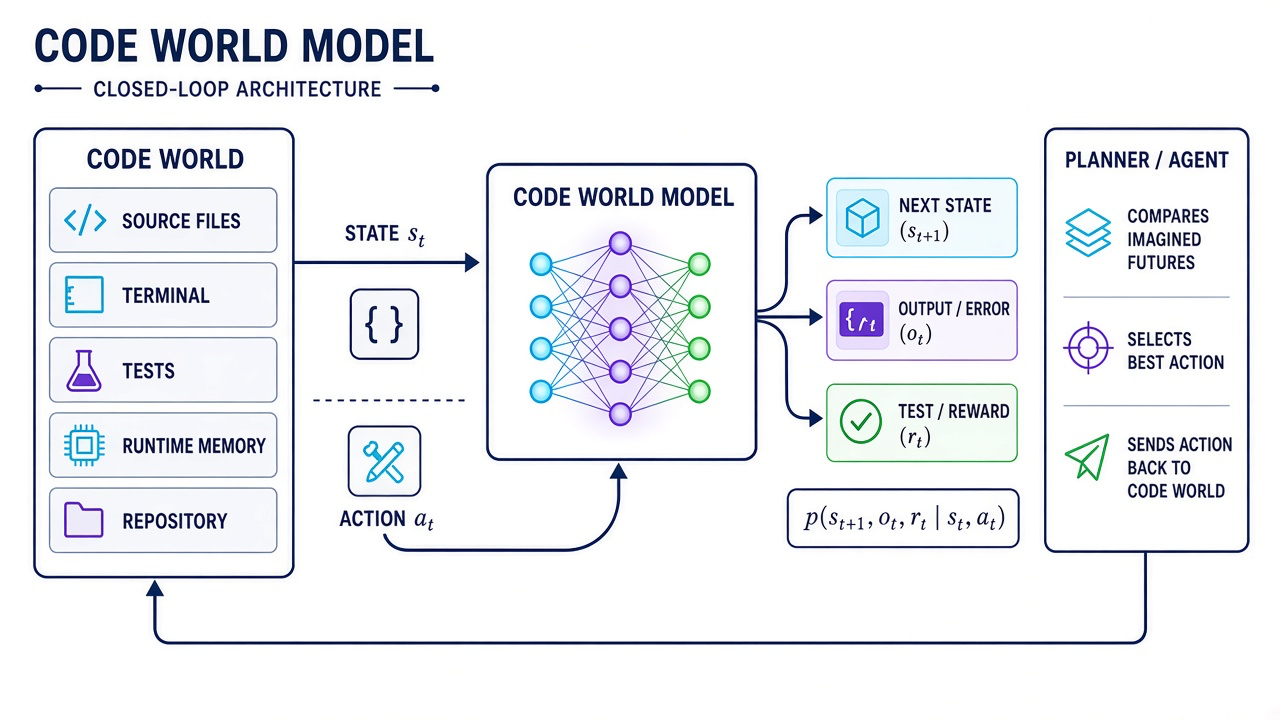
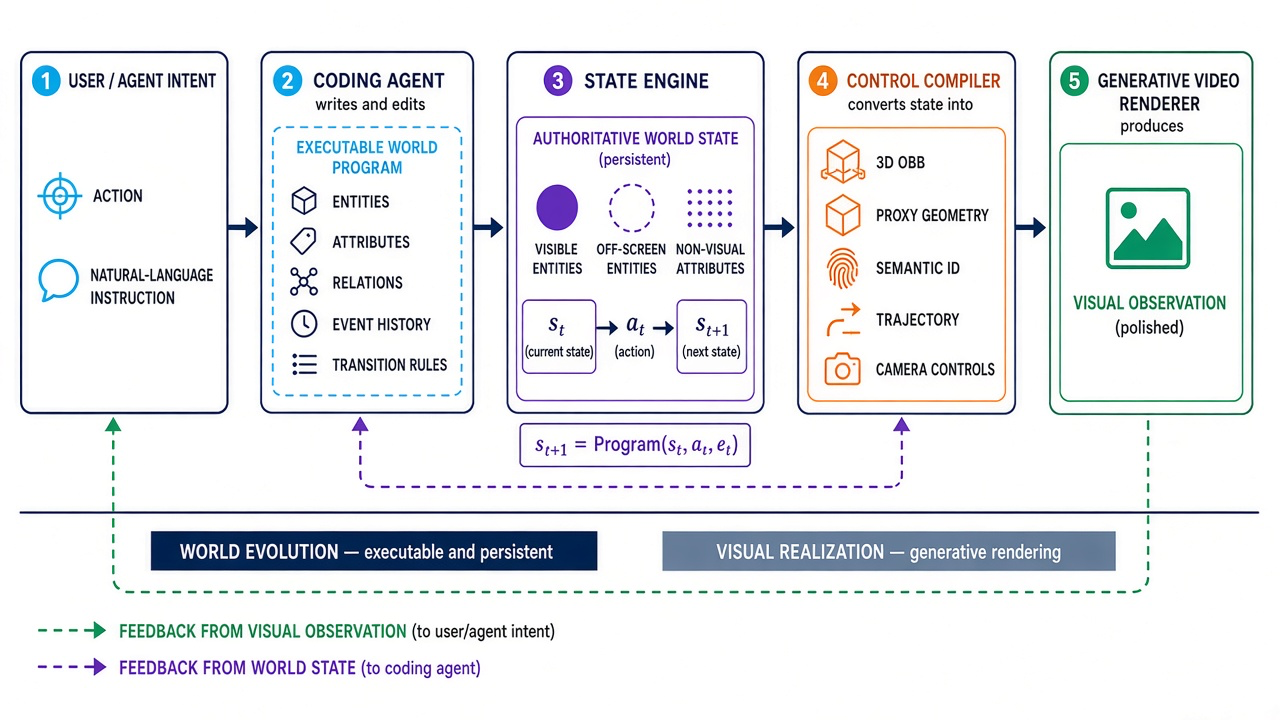
Refocus collection on programmable world models

Changed region(s): [[0.0, 0.0306, 1.0, 0.9472]]

diff --git a/README.md b/README.md
@@ -4,58 +4,151 @@
 ![Last updated](https://img.shields.io/badge/last%20updated-September%202026-blue)
 [![PRs Welcome](https://img.shields.io/badge/PRs-welcome-brightgreen.svg)](#contributing)
 
-A curated collection of papers, models, datasets, benchmarks, and resources on **Code World Models (CWMs)**—learned models that predict how executable software environments change.
+A curated collection of papers, models, datasets, benchmarks, and resources on **Code World Models (CWMs)**—world models whose state and dynamics are represented, generated, or maintained as executable code.
 
-> This is a young and fast-moving area. The list uses a deliberately strict scope so that it does not become another general collection of code LLMs or coding agents.
+> **Primary focus:** code as the persistent, programmable “brain” of an external visual, physical, or interactive world. Software-execution world models are retained as a separate second direction because the term CWM is also used there.
 
 ## What is a Code World Model?
 
-A **Code World Model** is a learned predictive model of an executable software environment. Given a current state $s_t$—such as source files, runtime memory, a repository, or a terminal session—and an action $a_t$—such as executing a statement, editing a file, invoking an API, or running a command—it predicts an execution-relevant consequence:
+A **Code World Model** represents an external world's entities, state, relations, events, and transition rules as an executable program. Given the current authoritative state $s_t$, an action $a_t$, and optional events $e_t$, executing the program advances the world:
 
 $$
-\hat{p}(s_{t+1}, o_t, r_t, d_t \mid s_t, a_t)
+s_{t+1} = \operatorname{Program}(s_t, a_t, e_t)
 $$
 
-The prediction may represent the next program or environment state, an execution trace, stdout/stderr, an exception, a test result, resource usage, a reward, or termination. A CWM becomes especially useful when these predictions replace or augment real execution in planning, search, generation, verification, or agent training.
+The program may be written by a coding agent, induced from observations and interactions, synthesized from a specification, or manually authored. In visual CWMs, a compiler converts the updated state into spatial controls—such as 3D boxes, proxy geometry, trajectories, semantic IDs, and camera paths—and a generative renderer turns those controls into video observations. This separation lets code preserve exact, persistent, off-screen, and non-visual facts while a neural model focuses on appearance.
 
 ### Inclusion Criteria
 
-- Learned transition models for interpreters, debuggers, terminals, repositories, build systems, compilers, and test runners.
-- Learned execution, trace, output, error, test, resource, or reward predictors.
-- Benchmarks that directly measure software-state or execution-outcome prediction.
-- Closely related systems that synthesize executable world models *as code*, listed separately.
+- Executable state and rule systems coupled to neural image or video renderers.
+- World models learned or generated as code, probabilistic programs, PDDL, or simulator programs.
+- Coding agents that infer, edit, verify, and plan with executable world representations.
+- Explicit-state world models that clarify the state/dynamics/rendering decomposition.
+- Software-execution world models, kept in their own clearly labeled direction.
 
 ### Exclusion Criteria
 
-- Ordinary code completion, generation, repair, or static code understanding.
-- Coding agents that only call real tools and do not learn environment dynamics.
-- Verifiers trained only on textual preferences, without execution-grounded targets.
-- General world models unrelated to executable software environments.
+- Ordinary code generation without an executable model of world dynamics.
+- Generic game engines or simulators that are not generated, induced, or part of a world-model contribution.
+- Pixel-only or latent video world models with no explicit programmatic state, except as contextual related work.
+- Coding agents that neither construct nor use a world model.
 
 <p align="center">
-  <img src="assets/code-world-model-overview.png" width="100%" alt="A Code World Model predicts the next software state, output, error, test result, or reward from the current code-world state and an action, allowing an agent to plan over imagined futures." />
+  <img src="assets/code-world-model-overview.png" width="100%" alt="A coding agent writes an executable world program, a state engine maintains persistent world state, a compiler creates visual controls, and a generative video model renders observations." />
 </p>
 
 ## Contents
 
-- [Core Models](#core-models)
+- [Programmatic Visual World Models](#programmatic-visual-world-models)
+- [Explicit-State Models and Generative Renderers](#explicit-state-models-and-generative-renderers)
+- [World Models as Executable Programs](#world-models-as-executable-programs)
+- [Programmatic-World Benchmarks](#programmatic-world-benchmarks)
+- [Adjacent Neural Visual World Models](#adjacent-neural-visual-world-models)
+- [Software World Models](#software-world-models)
   - [Repository and Terminal World Models](#repository-and-terminal-world-models)
   - [Program Execution and State Models](#program-execution-and-state-models)
-- [Evaluation and Analysis](#evaluation-and-analysis)
-- [Benchmarks](#benchmarks)
-- [World Models as Code](#world-models-as-code)
+  - [Software-World Evaluation and Analysis](#software-world-evaluation-and-analysis)
+  - [Software-World Benchmarks](#software-world-benchmarks)
+- [Terminology and Scope](#terminology-and-scope)
 - [Contributing](#contributing)
 
 ## Tag Legend
 
-- `transition` — predicts action-conditioned next states or observations
-- `trace` — predicts intermediate program execution
-- `outcome` — predicts outputs, errors, tests, resources, or termination
-- `reward` — predicts task success or scalar feedback
-- `repo` / `terminal` — models repository-scale or command-line environments
-- `open model` — public model weights are available
+- `code-state` — code is the authoritative world-state representation
+- `agent-written` — a coding agent creates or edits world programs
+- `induced` — executable dynamics are learned from observations or interaction
+- `neural renderer` — a generative model realizes visual observations from structured controls
+- `explicit state` — dynamics and observations are modeled separately
+- `software world` — predicts the behavior of programs or software environments
+- `transition` / `trace` / `outcome` / `reward` — software-world prediction targets
+- `repo` / `terminal` — repository-scale or command-line software environments
+- `open code` / `open model` — public implementation or weights are available
 
-## Core Models
+## Programmatic Visual World Models
+
+These works most directly match this repository's primary focus: executable programs maintain or reconstruct a world, and visual observations are produced through a rendering pipeline.
+
+- **Programmable World Model (PWM)** — *Programmable World Model*. arXiv 2026. A coding agent translates instructions into entity states and executable transition rules; a lightweight engine maintains persistent off-screen and non-visual state; state-augmented 3D oriented bounding boxes are compiled into controls for a pretrained video renderer. Introduces CombatStateBench. `code-state` `agent-written` `neural renderer` `open code`
+  [Paper](https://arxiv.org/abs/2609.10540) · [Project](https://alaya-lab.github.io/pwm/) · [Code](https://github.com/AlayaLab/pwm)
+
+- **Code World Model** — *Code World Model: Coding Agent as World Brain*. arXiv 2026. A coding agent continually creates and updates executable world state and rules, compiles them into proxy videos and structured prompts, and conditions MiniMax-H3 to render open-ended visual observations. `code-state` `agent-written` `neural renderer` `open code`
+  [Paper](https://arxiv.org/abs/2608.25927) · [Project](https://buaacyw.github.io/cwm/) · [Code](https://github.com/buaacyw/code-world-model) · [Model](https://huggingface.co/NTU-yiwen/awm-minimax-h3-new1344-lora-checkpoints)
+
+- **Code as Worlds** — *Code as Worlds: Agentic Discovery of Executable World Representations for Physical Reasoning*. arXiv 2026. Represents physical composition, dynamics, and appearance as executable code, discovered through a propose–execute–render–verify loop from text or video evidence. `code-state` `agent-written` `induced` `open code`
+  [Paper](https://arxiv.org/abs/2608.27549) · [Project](https://mirros-lab.github.io/code-as-world/) · [Code](https://github.com/MirroS-Lab/Code-as-World)
+
+- **VisPhyWorld** — *VisPhyWorld: Probing Physical Reasoning via Code-Driven Video Reconstruction*. arXiv 2026. Requires multimodal models to infer executable 2D/3D physics simulation code from visual evidence and evaluates the re-rendered future, making the inferred dynamics inspectable and falsifiable. `code-state` `agent-written` `induced` `open code`
+  [Paper](https://arxiv.org/abs/2602.13294) · [Project](https://tiger-ai-lab.github.io/VisPhyWorld/) · [Code](https://github.com/TIGER-AI-Lab/VisPhyWorld)
+
+## Explicit-State Models and Generative Renderers
+
+These systems share the key separation between authoritative state/dynamics and visual realization, but their state transitions are learned or conventionally authored rather than maintained as open-ended code by an agent.
+
+- **Magpie** — *Magpie: Real-Time World Renderer for Interactive Games*. arXiv 2026. A conventional game engine owns rules and state while a separate generative render server converts white-box frames into high-fidelity real-time video. `explicit state` `neural renderer`
+  [Paper](https://arxiv.org/abs/2608.27168) · [Project](https://zhanxy.xyz/Magpie-website) · [Data](https://huggingface.co/datasets/MogoAI/Magpie_lite)
+
+- **Marionette** — *Marionette: Predicting World States, Rendering Geometry, Painting Appearance*. arXiv 2026. Predicts explicit articulated 3D state, deterministically converts it into pose-control video, and leaves only appearance synthesis to video diffusion; state-level rules can directly repair rollouts. `explicit state` `neural renderer` `open code` `open model`
+  [Paper](https://arxiv.org/abs/2608.14530) · [Project](https://alayalab.github.io/Marionette/) · [Code](https://github.com/AlayaLab/Marionette) · [Model](https://huggingface.co/AlayaLab/Marionette)
+
+- **MASS** — *MASS: Multiplayer World Models with Authoritative Shared State*. arXiv 2026. A learned logic engine advances a global typed state, while independent neural renderers produce consistent player-specific views. `explicit state` `neural renderer`
+  [Paper](https://arxiv.org/abs/2608.06257) · [Project](https://alaya-lab.github.io/MASS/)
+
+- **StatePlay** — *StatePlay: State-Aware Game World Models for Mechanics-Consistent Generation*. arXiv 2026. Jointly predicts explicit game variables and visual content so mechanics such as health, timers, and skill meters constrain generated gameplay. `explicit state` `neural renderer` `open code` `open model`
+  [Paper](https://arxiv.org/abs/2607.26754) · [Project](https://jimntu.github.io/stateplay_page/) · [Code](https://github.com/Jimntu/StatePlay) · [Model](https://huggingface.co/onepiece1999/StatePlay)
+
+## World Models as Executable Programs
+
+These works learn, synthesize, or repair executable transition models for planning and simulation, usually without a neural visual renderer.
+
+- **VisualPatchWorld** — *VisualPatchWorld: Code World Models as Latent Structured Representations for Planning*. arXiv 2026. Induces structured executable dynamics from visual trajectories for planning across navigation and continuous-control tasks. `induced` `open code`
+  [Paper](https://arxiv.org/abs/2607.25236) · [Code](https://github.com/HKBU-KnowComp/VisualPatchWorld)
+
+- **Mind-Studio** — *Mind-Studio: Executable World Models with Lookahead Evaluation for Partially Observable Games*. arXiv 2026. Synthesizes standalone transition-and-render programs for partially observable Atari games and uses them for lookahead evaluation. `agent-written` `induced` `open code`
+  [Paper](https://arxiv.org/abs/2606.16070) · [Code](https://github.com/HKBU-KnowComp/MindStudio)
+
+- **Executable World Models for ARC-AGI-3** — *Executable World Models for ARC-AGI-3 in the Era of Coding Agents*. arXiv 2026. A coding agent maintains, verifies, simplifies, and plans through persistent Python models of interactive games. `agent-written` `induced` `open code`
+  [Paper](https://arxiv.org/abs/2605.05138) · [Code](https://github.com/astroseger/arc-3-agents-baseline1)
+
+- **PatchWorld** — *PatchWorld: Gradient-Free Optimization of Executable World Models*. arXiv 2026. Induces persistent Python belief-state programs from offline trajectories through counterexample-guided repair. `induced` `open code`
+  [Paper](https://arxiv.org/abs/2605.30880) · [Code](https://github.com/HKBU-KnowComp/PatchWorld)
+
+- **Code World Models for General Game Playing** — ICLR 2026. Compiles natural-language game rules and demonstrations into executable Python functions for transitions, legal actions, observations, rewards, and termination, then plans with MCTS. `agent-written`
+  [Paper](https://proceedings.iclr.cc/paper_files/paper/2026/hash/d8a12fde9e72444e1b356e8c37e53753-Abstract-Conference.html)
+
+- **PoE-World** — *PoE-World: Compositional World Modeling with Products of Programmatic Experts*. NeurIPS 2025 Spotlight. Learns stochastic, partially observable Atari dynamics as a weighted product of small LLM-synthesized Python programs. `agent-written` `induced` `open code`
+  [Paper](https://proceedings.neurips.cc/paper_files/paper/2025/hash/262dd62fd1bbb30d6a6b4d578f5e65ff-Abstract-Conference.html) · [Project](https://topwasu.github.io/poe-world) · [Code](https://github.com/topwasu/poe-world)
+
+- **POMDP Coder** — *LLM-Guided Probabilistic Program Induction for POMDP Model Estimation*. 2025. Generates probabilistic programs for initial state, transition, observation, and reward functions under partial observability. `agent-written` `induced`
+  [Paper](https://arxiv.org/abs/2505.02216)
+
+- **FactorSim** — *FactorSim: Generative Simulation via Factorized Representation*. NeurIPS 2024. Generates complete game and robotics simulations from language using a factorized POMDP representation. `agent-written` `open code`
+  [Paper](https://proceedings.neurips.cc/paper_files/paper/2024/hash/9f35ec2f7f403ef2c83d65b581df10bc-Abstract-Conference.html) · [Project](https://cs.stanford.edu/~sunfanyun/factorsim/) · [Code](https://github.com/sunfanyunn/FactorSim)
+
+- **GIF-MCTS** — *Generating Code World Models with Large Language Models Guided by Monte Carlo Tree Search*. NeurIPS 2024. Searches over executable simulator programs using environment interaction and downstream policy performance, and introduces the Code World Models Benchmark (CWMB). `agent-written` `induced` `open code`
+  [Paper](https://proceedings.neurips.cc/paper_files/paper/2024/hash/6f479ea488e0908ac8b1b37b27fd134c-Abstract-Conference.html) · [Project](https://sites.google.com/view/code-world-models/home) · [Code](https://github.com/nicoladainese96/code-world-models)
+
+- **WorldCoder** — *WorldCoder, a Model-Based LLM Agent: Building World Models by Writing Code and Interacting with the Environment*. NeurIPS 2024. Induces executable transition and reward programs from interaction, verifies them against experience, and plans inside the learned model. `agent-written` `induced` `open code`
+  [Paper](https://proceedings.neurips.cc/paper_files/paper/2024/hash/820c61a0cd419163ccbd2c33b268816e-Abstract-Conference.html) · [Project](https://haotang1995.github.io/projects/worldcoder) · [Code](https://github.com/haotang1995/WorldCoder)
+
+## Programmatic-World Benchmarks
+
+- **CombatStateBench** — Long-horizon entity count and persistent-state evaluation with moving cameras, off-screen entities, and irreversible events. [Paper](https://arxiv.org/abs/2609.10540) · [Code](https://github.com/AlayaLab/pwm)
+- **VisPhyBench** — 209 scenes from 108 physical templates for evaluating code-driven physical reconstruction and re-simulation. [Paper](https://arxiv.org/abs/2602.13294) · [Code and Data](https://github.com/TIGER-AI-Lab/VisPhyWorld)
+- **CWMB** — 18 environments for evaluating induced executable transition models through model fidelity and downstream policy learning. [Paper](https://arxiv.org/abs/2405.15383) · [Code and Data](https://github.com/nicoladainese96/code-world-models)
+- **Text2World** — Generation of executable PDDL world models from natural-language descriptions. [Paper](https://aclanthology.org/2025.findings-acl.1337/) · [Code and Data](https://github.com/Aaron617/text2world)
+
+## Adjacent Neural Visual World Models
+
+These representative interactive video world models provide important rendering and action-conditioning context, but do not use an authoritative executable program as world state.
+
+- **YUME** — *YUME: An Interactive World Generation Model*. arXiv 2025. [Paper](https://arxiv.org/abs/2507.17744)
+- **GameNGen** — *Diffusion Models Are Real-Time Game Engines*. arXiv 2024. [Paper](https://arxiv.org/abs/2408.14837) · [Project](https://gamengen.github.io/)
+- **DIAMOND** — *Diffusion for World Modeling: Visual Details Matter in Atari*. NeurIPS 2024. [Paper](https://arxiv.org/abs/2405.12399) · [Code](https://github.com/eloialonso/diamond)
+- **Genie** — *Genie: Generative Interactive Environments*. ICML 2024. [Paper](https://arxiv.org/abs/2402.15391) · [Project](https://sites.google.com/view/genie-2024/)
+
+## Software World Models
+
+This second direction uses “Code World Model” to mean a learned model of **software execution**: how code, commands, tools, repositories, and tests change a computational environment. Here, code is the modeled world rather than the representation of an external world.
 
 ### Repository and Terminal World Models
 
@@ -97,7 +190,7 @@ The prediction may represent the next program or environment state, an execution
 - **Learning to Execute** — *Learning to Execute*. arXiv 2014. A foundational study training recurrent networks to predict program outputs directly from source code and inputs. `outcome`
   [Paper](https://arxiv.org/abs/1410.4615) · [Code](https://github.com/wojciechz/learning_to_execute)
 
-## Evaluation and Analysis
+### Software-World Evaluation and Analysis
 
 - **Towards Evaluation of Implicit Software World Models in Coding LLMs** — DL4Code at ICML 2026. Evaluates test outcomes, exceptions, memory, runtime, and profiler predictions on library-level cases derived from SWE-bench Verified.
   [Paper](https://arxiv.org/abs/2606.27406) · [Code](https://github.com/JetBrains-Research/cwm-execution-tracer) · [Data](https://huggingface.co/datasets/JetBrains-Research/cwm-benchmarks-dl4c-benchmark)
@@ -105,7 +198,7 @@ The prediction may represent the next program or environment state, an execution
 - **Debugging Code World Models** — 2026. Separates action-generation failures from state-propagation failures in long execution rollouts and analyzes the effect of dense state supervision.
   [Paper](https://arxiv.org/abs/2602.07672) · [Blog](https://babak70.github.io/code-world-models-blog/)
 
-## Benchmarks
+### Software-World Benchmarks
 
 Benchmarks are listed here only when they directly test learned execution or software-environment prediction; they are not themselves Code World Models.
 
@@ -126,27 +219,24 @@ Benchmarks are listed here only when they directly test learned execution or sof
   - **CRUXEval** — Input and output prediction for short Python functions. [Paper](https://proceedings.mlr.press/v235/gu24c.html) · [Code and Data](https://github.com/facebookresearch/cruxeval)
   - **Code Simulation Challenges** — Tests straight-line execution, critical paths, redundant computation, loops, and sorting. [Paper](https://arxiv.org/abs/2401.09074) · [Code and Data](https://github.com/EmanueleLM/CodeSimulation)
 
-## World Models as Code
+## Terminology and Scope
 
-These works use executable code as the **representation of another world's dynamics**. They are highly relevant to the name “Code World Model,” but are separated because the modeled world is a game or general environment rather than software execution.
+“Code World Model” currently refers to several related but distinct ideas:
 
-- **Code World Models for General Game Playing** — ICLR 2026. Generates executable Python game simulators from natural-language specifications and uses them for model-based planning.
-  [Paper](https://proceedings.iclr.cc/paper_files/paper/2026/hash/d8a12fde9e72444e1b356e8c37e53753-Abstract-Conference.html)
+1. **Programmatic external worlds** — code represents another world's entities, state, and dynamics. This is the repository's primary meaning.
+2. **Code-state visual worlds** — executable state is compiled into controls for a neural image or video renderer. PWM and *Coding Agent as World Brain* are the clearest examples.
+3. **Software world models** — a learned model predicts how source code, commands, repositories, or tests execute. Meta CWM and SWE-World use this meaning.
 
-- **Generating Code World Models with Large Language Models Guided by Monte Carlo Tree Search** — NeurIPS 2024. Searches over executable simulator programs and evaluates them through downstream gameplay.
-  [Paper](https://proceedings.neurips.cc/paper_files/paper/2024/hash/6f479ea488e0908ac8b1b37b27fd134c-Abstract-Conference.html) · [Code](https://github.com/nicoladainese96/code-world-models)
-
-- **WorldCoder, a Model-Based LLM Agent: Building World Models by Writing Code and Interacting with the Environment** — NeurIPS 2024. Induces executable environment models from interactions and plans inside the synthesized simulators.
-  [Paper](https://proceedings.neurips.cc/paper_files/paper/2024/hash/820c61a0cd419163ccbd2c33b268816e-Abstract-Conference.html) · [Code](https://github.com/haotang1995/WorldCoder)
+The boundary is representation, not appearance: a world may be visually simple and still qualify if its dynamics are executable programs. Conversely, a photorealistic interactive video model is adjacent rather than core if all persistent state remains implicit in pixels or latent features.
 
 ## Contributing
 
 Contributions are welcome. Before opening a pull request, please check that the resource:
 
-1. Predicts an execution-relevant state transition or outcome from code/environment context, **or** directly evaluates that capability.
-2. Is not only a general code LLM, coding agent, static analyzer, or wrapper around a real executor.
+1. Uses executable code or another programmatic representation as a world model, couples explicit state to a generative renderer, **or** clearly belongs to the separately labeled software-world direction.
+2. Does more than generate code: the program must represent, advance, reconstruct, evaluate, or support planning in a world.
 3. Links to a canonical paper/project page and, when available, public code, data, and model weights.
-4. Includes one sentence explaining why it belongs in this collection.
+4. Includes one sentence explaining the represented world, how its state evolves, and how observations are rendered.
 
 Please keep entries reverse chronological within each section and prefer archival conference pages over secondary summaries.
 
